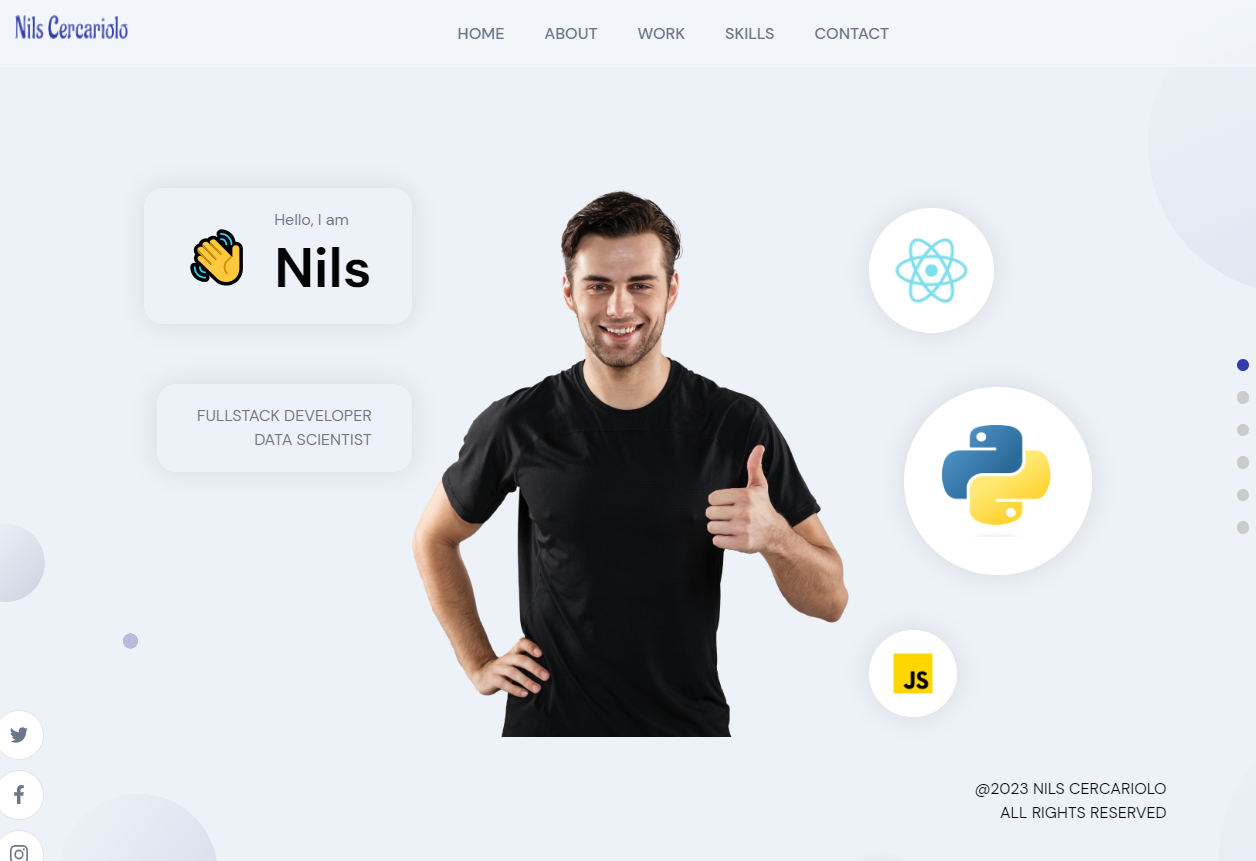
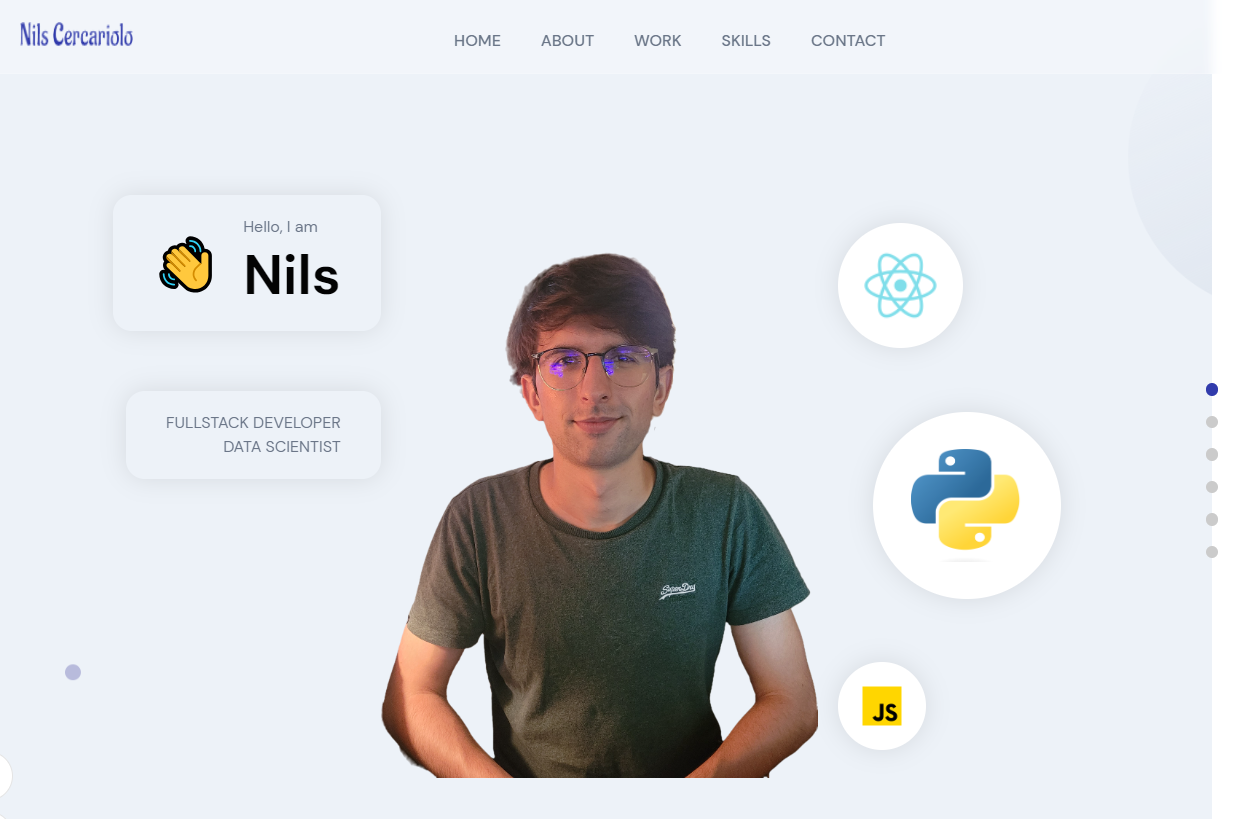
improved content that better fit me

diff --git a/frontend_react/src/container/About/About.jsx b/frontend_react/src/container/About/About.jsx
@@ -33,7 +33,7 @@ const About = () => {
         >
           <img src={urlFor(about.imgUrl)} alt={about.title}/>
           <h2 className='bold-text' style={{marginTop: 20}}>{about.title}</h2>
-          <h2 className='bold-text' style={{marginTop: 10}}>{about.description}</h2>
+          <p className='p-text' style={{marginTop: 10}}>{about.description}</p>
         </motion.div>
       ))}
     </div>

diff --git a/frontend_react/src/container/Work/Work.jsx b/frontend_react/src/container/Work/Work.jsx
@@ -38,7 +38,7 @@ const Work = () => {
 
   return (
     <>
-      <h2 className="head-text">My Creative <span>Portfolio</span> Section</h2>
+      <h2 className="head-text">My <span>Projects</span> Section</h2>
 
       <div className="app__work-filter">
         {['React', 'Javascript', 'C', 'Sanity', 'Git', 'All'].map((item, index) => (

diff --git a/frontend_react/src/components/NavigationDots.jsx b/frontend_react/src/components/NavigationDots.jsx
@@ -9,7 +9,8 @@ const NavigationDots = ({ active }) => {
                 key={item + index}
                 className='app__navigation-dot'
                 style={active === item ? {backgroundColor: '#313BAC'} : {}}
-            />
+            >
+             </a>
         ))}
     </div>
   )

diff --git a/frontend_react/src/container/Header/Header.jsx b/frontend_react/src/container/Header/Header.jsx
@@ -31,6 +31,7 @@ const Header = () => {
             <div style={{marginLeft: 20}}>
               <p className='p-text'>Hello, I am</p>
               <h1 className='head-text'>Nils</h1>
+              <p className='p-text'>📍 Rouen France</p>
             </div>
           </div>
 

diff --git a/frontend_react/src/container/Skills/Skills.jsx b/frontend_react/src/container/Skills/Skills.jsx
@@ -17,7 +17,7 @@ const Skills = () => {
 
     client.fetch(experiencesQuery)
       .then((data) => {
-        setExperiences(data);
+        setExperiences(data.sort(function(a, b){return b.year - a.year}));
       })
 
       client.fetch(skillsQuery)

diff --git a/frontend_react/src/container/Header/Header.scss b/frontend_react/src/container/Header/Header.scss
@@ -71,7 +71,7 @@
         p {
             width: 100%;
             text-transform: uppercase;
-            text-align: right;
+            text-align: left;
         }
     }
 
